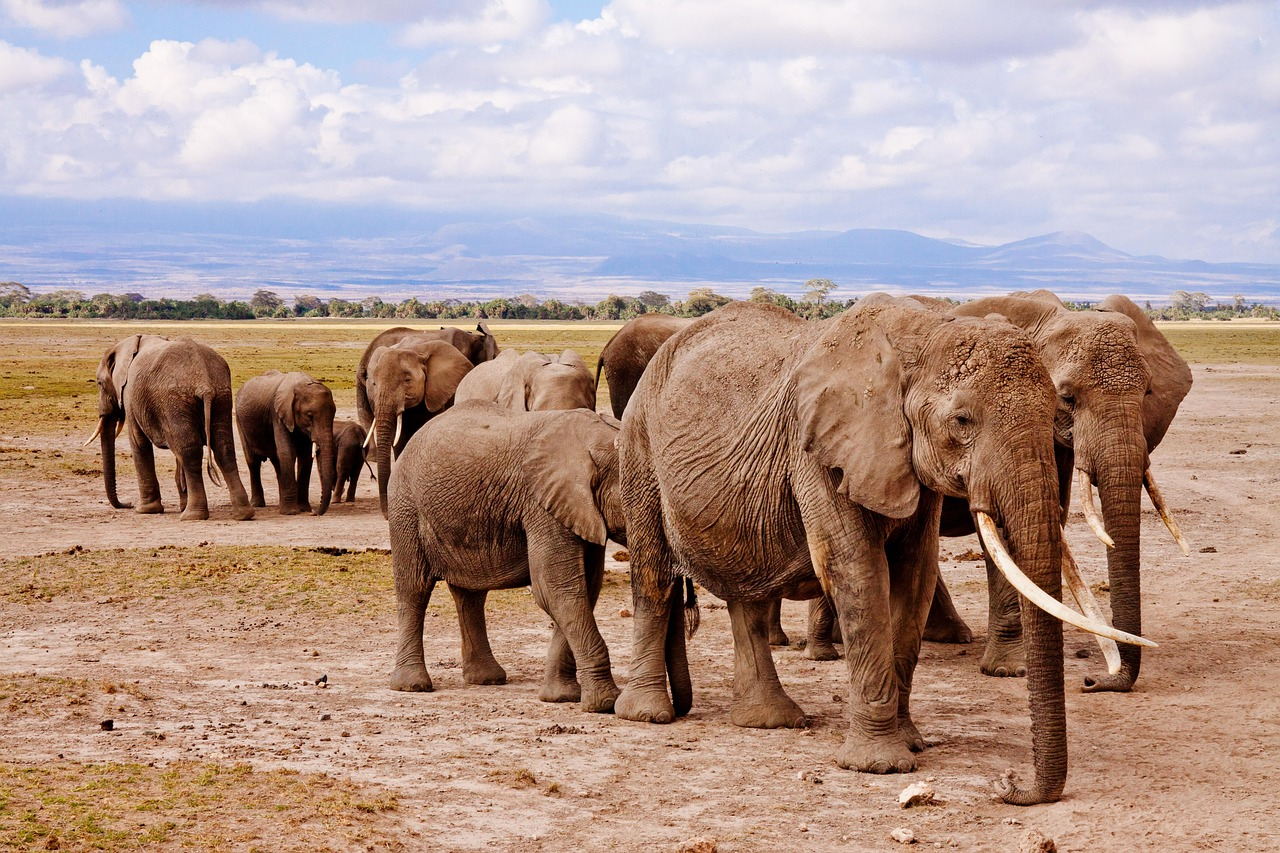
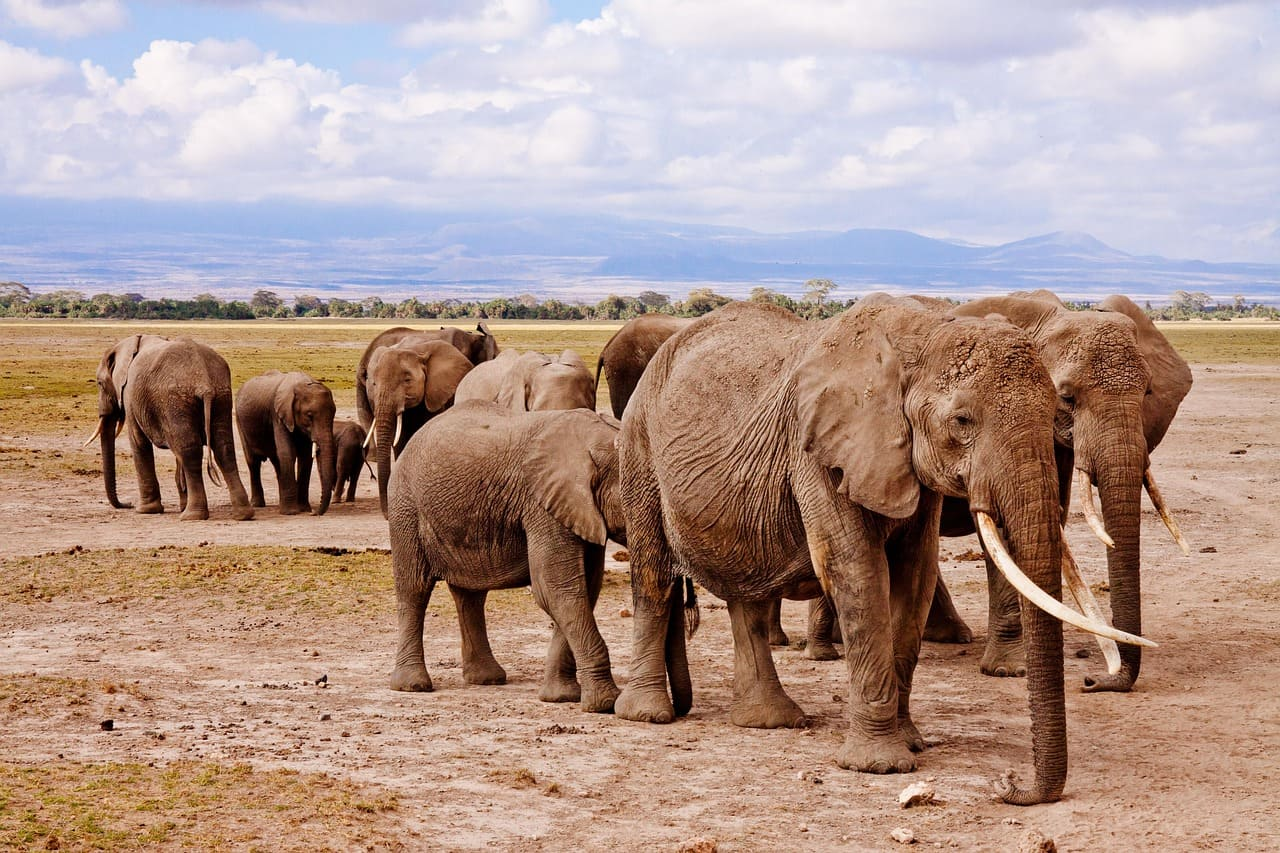
feat: images compressed + add events

diff --git a/main.js b/main.js
@@ -1,10 +1,15 @@
 let main__imageSection = document.getElementById('main__imageSection');
+let header__logo = document.getElementById('header__logo');
 
 let dialogRef = document.getElementById('main__dialog');
 let main__dialog_headline = document.getElementById('main__dialog_headline');
 let main__dialog_images = document.getElementById('main__dialog_images');
 let main__dialog_image_number = document.getElementById('main__dialog_image-number');
 let main__dialog_footer_like = document.getElementById('main__dialog_footer-like');
+let main__images_wacg = document.querySelector('.main__images');
+let main__dialog_header_icon = document.getElementById('main__dialog_header_icon');
+let previousButton = document.getElementById('previousButton');
+let nextButton = document.getElementById('nextButton');
 
 let main__images = [];
 let currentImage;
@@ -14,6 +19,7 @@ function renderImages() {
     main__image_lion.src = './assets/lion-majestic.jpg';
     main__image_lion.setAttribute('class', 'main__images main__image-position100');
     main__image_lion.setAttribute('alt', 'Majestätischer Löwe');
+    main__image_lion.setAttribute('tabindex', '0');
     main__image_lion.setAttribute('onclick', 'openDialog(0)');
     main__images.push(main__image_lion);
 
@@ -21,6 +27,7 @@ function renderImages() {
     main__image_tree_by_sunset.src = './assets/tree-by-sunset.jpg';
     main__image_tree_by_sunset.setAttribute('class', 'main__images');
     main__image_tree_by_sunset.setAttribute('alt', 'Sonnenuntergang am Meer');
+    main__image_tree_by_sunset.setAttribute('tabindex', '0');
     main__image_tree_by_sunset.setAttribute('onclick', 'openDialog(1)');
     main__images.push(main__image_tree_by_sunset);
 
@@ -28,6 +35,7 @@ function renderImages() {
     main__image_waterbungalows.src = './assets/malediven-waterbungalows.jpg';
     main__image_waterbungalows.setAttribute('class', 'main__images');
     main__image_waterbungalows.setAttribute('alt', 'Bungalow am Meer');
+    main__image_waterbungalows.setAttribute('tabindex', '0');
     main__image_waterbungalows.setAttribute('onclick', 'openDialog(2)');
     main__images.push(main__image_waterbungalows);
 
@@ -35,6 +43,7 @@ function renderImages() {
     main__image_waterfall.src = './assets/waterfall.jpg';
     main__image_waterfall.setAttribute('class', 'main__images');
     main__image_waterfall.setAttribute('alt', 'Wasserfall');
+    main__image_waterfall.setAttribute('tabindex', '0');
     main__image_waterfall.setAttribute('onclick', 'openDialog(3)');
     main__images.push(main__image_waterfall);
 
@@ -42,6 +51,7 @@ function renderImages() {
     main__image_lake_hills.src = './assets/lake-with-hills.jpg';
     main__image_lake_hills.setAttribute('class', 'main__images main__image-position15');
     main__image_lake_hills.setAttribute('alt', 'Bergsee');
+    main__image_lake_hills.setAttribute('tabindex', '0');
     main__image_lake_hills.setAttribute('onclick', 'openDialog(4)');
     main__images.push(main__image_lake_hills);
 
@@ -49,6 +59,7 @@ function renderImages() {
     main__image_elephants.src = './assets/elephants-with-babys.jpg';
     main__image_elephants.setAttribute('class', 'main__images main__image-position80');
     main__image_elephants.setAttribute('alt', 'Elefantenfamilie');
+    main__image_elephants.setAttribute('tabindex', '0');
     main__image_elephants.setAttribute('onclick', 'openDialog(5)');
     main__images.push(main__image_elephants);
 
@@ -56,6 +67,7 @@ function renderImages() {
     main__image_big_ben.src = './assets/big-ben-by-night.jpg';
     main__image_big_ben.setAttribute('class', 'main__images');
     main__image_big_ben.setAttribute('alt', 'Big Ben bei Nacht');
+    main__image_big_ben.setAttribute('tabindex', '0');
     main__image_big_ben.setAttribute('onclick', 'openDialog(6)');
     main__images.push(main__image_big_ben);
 
@@ -63,6 +75,7 @@ function renderImages() {
     main__image_aerial_cliff.src = './assets/aerialView-cliff.jpg';
     main__image_aerial_cliff.setAttribute('class', 'main__images main__image-position15');
     main__image_aerial_cliff.setAttribute('alt', 'Haus am Meer');
+    main__image_aerial_cliff.setAttribute('tabindex', '0');
     main__image_aerial_cliff.setAttribute('onclick', 'openDialog(7)');
     main__images.push(main__image_aerial_cliff);
 
@@ -70,6 +83,7 @@ function renderImages() {
     main__image_cat_lying.src = './assets/lying-cat.jpg';
     main__image_cat_lying.setAttribute('class', 'main__images');
     main__image_cat_lying.setAttribute('alt', 'Liegende Katze');
+    main__image_cat_lying.setAttribute('tabindex', '0');
     main__image_cat_lying.setAttribute('onclick', 'openDialog(8)');
     main__images.push(main__image_cat_lying);
 
@@ -77,6 +91,7 @@ function renderImages() {
     main__image_ferrari.src = './assets/ferrari-488-gtb.jpg';
     main__image_ferrari.setAttribute('class', 'main__images main__image-position15');
     main__image_ferrari.setAttribute('alt', 'Ferrari 488 GTB');
+    main__image_ferrari.setAttribute('tabindex', '0');
     main__image_ferrari.setAttribute('onclick', 'openDialog(9)');
     main__images.push(main__image_ferrari);
 
@@ -84,6 +99,7 @@ function renderImages() {
     main__image_surfing_waves.src = './assets/surfing-waves.jpg';
     main__image_surfing_waves.setAttribute('class', 'main__images');
     main__image_surfing_waves.setAttribute('alt', 'Wellensurfer');
+    main__image_surfing_waves.setAttribute('tabindex', '0');
     main__image_surfing_waves.setAttribute('onclick', 'openDialog(10)');
     main__images.push(main__image_surfing_waves);
 
@@ -91,6 +107,7 @@ function renderImages() {
     main__image_tokyo_by_night.src = './assets/tokyo-by-night.jpg';
     main__image_tokyo_by_night.setAttribute('class', 'main__images');
     main__image_tokyo_by_night.setAttribute('alt', 'Tokyo bei Nacht');
+    main__image_tokyo_by_night.setAttribute('tabindex', '0');
     main__image_tokyo_by_night.setAttribute('onclick', 'openDialog(11)');
     main__images.push(main__image_tokyo_by_night);
 
@@ -98,6 +115,13 @@ function renderImages() {
         main__imageSection.innerHTML += `<figure>${main__images[i].outerHTML}</figure>`
     }
 }
+
+main__imageSection.addEventListener('keyup', function(event) {
+    if (event.keyCode === 13) {
+        openDialog(0);
+    }
+});
+
 
 function openDialog(i) {
     main__images[i].classList.remove('main__images');
@@ -113,12 +137,30 @@ function openDialog(i) {
     } else {
         main__dialog_footer_like.classList.add('main__dialog_footer-liked');
     }
+    main__dialog_header_icon.addEventListener('keyup', function(event) {
+        if (event.keyCode === 13) {
+            closeDialog();
+        }
+    });
 }
 
 function closeDialog() {
     dialogRef.close();
     dialogRef.classList.remove('opened');
+    header__logo.focus();
 }
+
+document.body.addEventListener('keyup', function(event) {
+    if (event.keyCode === 37) {
+        previousImage();
+    }
+})
+
+previousButton.addEventListener('keyup', function(event) {
+    if (event.keyCode === 13 || event.keyCode === 37) {
+        previousImage();
+    }
+})
 
 function previousImage() {
     if (currentImage == 0) {
@@ -132,6 +174,18 @@ function previousImage() {
     openDialog(currentImage);
 }
 
+document.body.addEventListener('keyup', function(event) {
+    if (event.keyCode === 39) {
+        nextImage();
+    }
+})
+
+nextButton.addEventListener('keyup', function(event) {
+    if (event.keyCode === 13 || event.keyCode === 39) {
+        nextImage();
+    }
+})
+
 function nextImage() {
     if (currentImage == main__images.length - 1) {
         currentImage = main__images.length - main__images.length;
@@ -143,6 +197,12 @@ function nextImage() {
     main__dialog_image_number.innerHTML = `${currentImage + 1}`;
     openDialog(currentImage);
 }
+
+main__dialog_footer_like.addEventListener('keyup', function(event) {
+    if (event.keyCode === 13) {
+        like();
+    }
+})
 
 function like() {
     if (!main__images[currentImage].classList.contains('liked')) {

diff --git a/index.html b/index.html
@@ -12,7 +12,7 @@
 <body onload="renderImages()">
     <header class="header">
         <div class="content_max-width">
-            <a href="index.html" class="header__logo">
+            <a href="index.html" id="header__logo" class="header__logo">
                 <svg class="header__logoIcon" width="216" height="41" viewBox="0 0 216 41" fill="none" xmlns="http://www.w3.org/2000/svg">
                     <g clip-path="url(#clip0_401_1050)">
                         <path d="M19.019 22.3378C16.6143 22.0376 12.0306 26.1509 10.2532 30.2493C9.79618 31.3037 8.94634 33.335 9.5841 35.3707C9.72748 35.8277 10.5624 38.2473 13.4973 38.676C13.5391 38.682 13.5794 38.6879 13.6212 38.6924C15.6674 38.9478 18.5425 38.2458 20.2796 36.3296C22.0001 34.4313 22.1077 31.9131 22.1137 30.9542C22.1137 30.6854 22.1107 30.4255 22.1002 30.1791C22.0091 27.6206 21.5132 24.7425 20.0466 22.8725C19.7404 22.4827 19.4491 22.4125 19.1146 22.3513C19.0832 22.3453 19.0518 22.3408 19.019 22.3363" fill="#F64E85"/>
@@ -87,7 +87,7 @@
             </svg>
             <a href="impressum.html">Impressum</a>
             <p class="footer__copyright">
-                <a href="https://developerakademie.com/">
+                <a href="https://developerakademie.com/" target="_blank">
                     <svg class="footer__Icon" xmlns="http://www.w3.org/2000/svg" viewBox="0 0 640 640">
                         <path d="M320 112C434.9 112 528 205.1 528 320C528 434.9 434.9 528 320 528C205.1 528 112 434.9 112 
                         320C112 205.1 205.1 112 320 112zM320 576C461.4 576 576 461.4 576 320C576 178.6 461.4 64 320 64C178.6 
@@ -102,10 +102,10 @@
         </div>
     </footer>
 
-    <dialog id="main__dialog" class="main__dialog" closedby="any">
+    <dialog id="main__dialog" class="main__dialog" aria-labelledby="main__dialog_headline" closedby="any">
         <header class="main__dialog_header">
             <h2 id="main__dialog_headline" class="main__dialog_headline">Image-name</h2>
-            <svg onclick="closeDialog()" class="main__dialog_icon main__dialog_header_icon" xmlns="http://www.w3.org/2000/svg" viewBox="0 0 640 640">
+            <svg onclick="closeDialog()" aria-label="Dialog schließen" tabindex="0" id="main__dialog_header_icon" class="main__dialog_icon main__dialog_header_icon" xmlns="http://www.w3.org/2000/svg" viewBox="0 0 640 640">
                 <path d="M183.1 137.4C170.6 124.9 150.3 124.9 137.8 137.4C125.3 149.9 125.3 170.2 137.8 182.7L275.2 
                 320L137.9 457.4C125.4 469.9 125.4 490.2 137.9 502.7C150.4 515.2 170.7 515.2 183.2 502.7L320.5 365.3L457.9 
                 502.6C470.4 515.1 490.7 515.1 503.2 502.6C515.7 490.1 515.7 469.8 503.2 457.3L365.8 320L503.1 182.6C515.6 
@@ -116,7 +116,7 @@
             <figure></figure>
         </section>
         <footer class="main__dialog_footer">
-            <svg onclick="like()" id="main__dialog_footer-like" class="main__dialog_icon main__dialog_footer-like" xmlns="http://www.w3.org/2000/svg" viewBox="0 0 640 640">
+            <svg onclick="like()" tabindex="0" id="main__dialog_footer-like" class="main__dialog_icon main__dialog_footer-like" xmlns="http://www.w3.org/2000/svg" viewBox="0 0 640 640">
                 <path d="M442.9 144C415.6 144 389.9 157.1 373.9 179.2L339.5 226.8C335 233 327.8 236.7 320.1 236.7C312.4 
                 236.7 305.2 233 300.7 226.8L266.3 179.2C250.3 157.1 224.6 144 197.3 144C150.3 144 112.2 182.1 112.2 
                 229.1C112.2 279 144.2 327.5 180.3 371.4C221.4 421.4 271.7 465.4 306.2 491.7C309.4 494.1 314.1 495.9 
@@ -127,14 +127,14 @@
                 155.6 123.6 96 197.1 96C239.8 96 280 116.5 305 151.1L320 171.8L335 151.1z"/>
             </svg>
             <section class="main__dialog_footer_navigation">
-                <svg onclick="previousImage()" class="main__dialog_icon main__dialog_footer_icon" xmlns="http://www.w3.org/2000/svg" viewBox="0 0 640 640">
+                <svg onclick="previousImage()" tabindex="0" id="previousButton" class="main__dialog_icon main__dialog_footer_icon" xmlns="http://www.w3.org/2000/svg" viewBox="0 0 640 640">
                     <path d="M73.4 297.4C60.9 309.9 60.9 330.2 73.4 342.7L233.4 502.7C245.9 515.2 266.2 515.2 278.7 
                     502.7C291.2 490.2 291.2 469.9 278.7 457.4L173.3 352L544 352C561.7 352 576 337.7 576 320C576 302.3 
                     561.7 288 544 288L173.3 288L278.7 182.6C291.2 170.1 291.2 149.8 278.7 137.3C266.2 124.8 245.9 
                     124.8 233.4 137.3L73.4 297.3z"/>
                 </svg>
                 <span class="main__dialog_image-number"><span id="main__dialog_image-number"></span>/12</span>
-                <svg onclick="nextImage()" class="main__dialog_icon main__dialog_footer_icon" xmlns="http://www.w3.org/2000/svg" viewBox="0 0 640 640">
+                <svg onclick="nextImage()" tabindex="0" id="nextButton" class="main__dialog_icon main__dialog_footer_icon" xmlns="http://www.w3.org/2000/svg" viewBox="0 0 640 640">
                     <path d="M566.6 342.6C579.1 330.1 579.1 309.8 566.6 297.3L406.6 137.3C394.1 124.8 373.8 124.8 
                     361.3 137.3C348.8 149.8 348.8 170.1 361.3 182.6L466.7 288L96 288C78.3 288 64 302.3 64 320C64 
                     337.7 78.3 352 96 352L466.7 352L361.3 457.4C348.8 469.9 348.8 490.2 361.3 502.7C373.8 515.2 

diff --git a/impressum.html b/impressum.html
@@ -94,7 +94,7 @@
             </svg>
             <a href="impressum.html">Impressum</a>
             <p class="footer__copyright">
-                <a href="https://developerakademie.com/">
+                <a href="https://developerakademie.com/" target="_blank">
                     <svg class="footer__Icon" xmlns="http://www.w3.org/2000/svg" viewBox="0 0 640 640">
                         <path d="M320 112C434.9 112 528 205.1 528 320C528 434.9 434.9 528 320 528C205.1 528 112 434.9 112 
                         320C112 205.1 205.1 112 320 112zM320 576C461.4 576 576 461.4 576 320C576 178.6 461.4 64 320 64C178.6 
